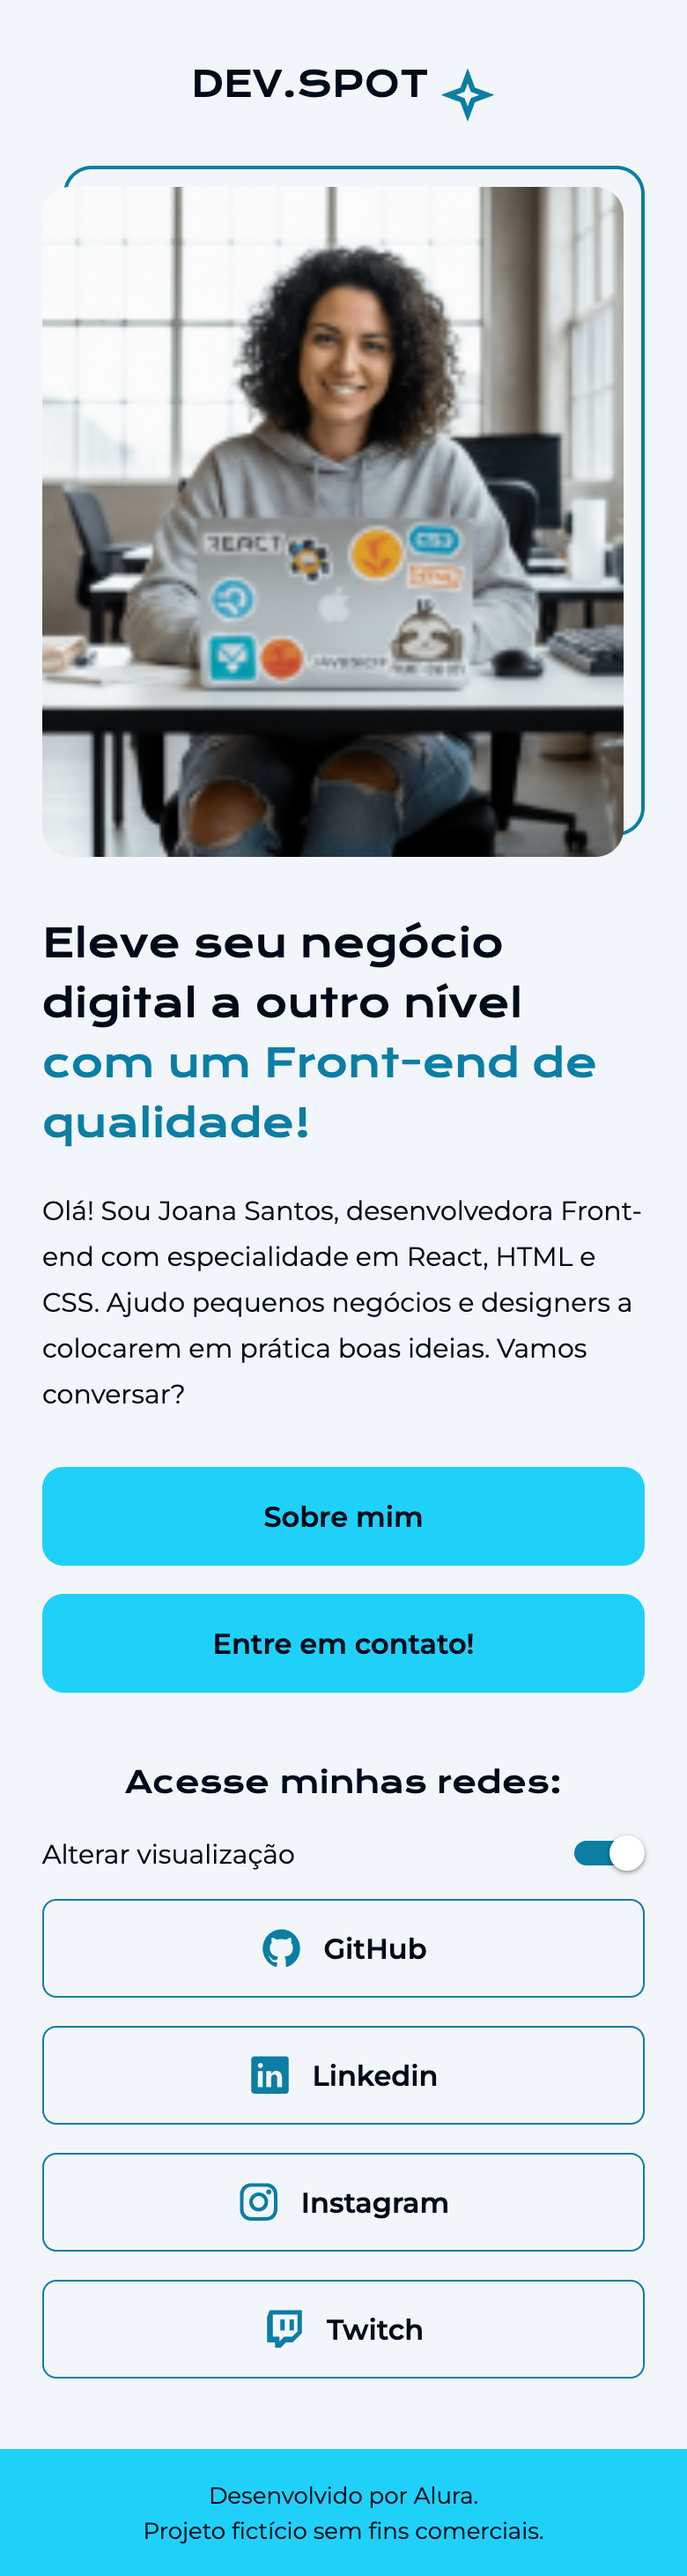
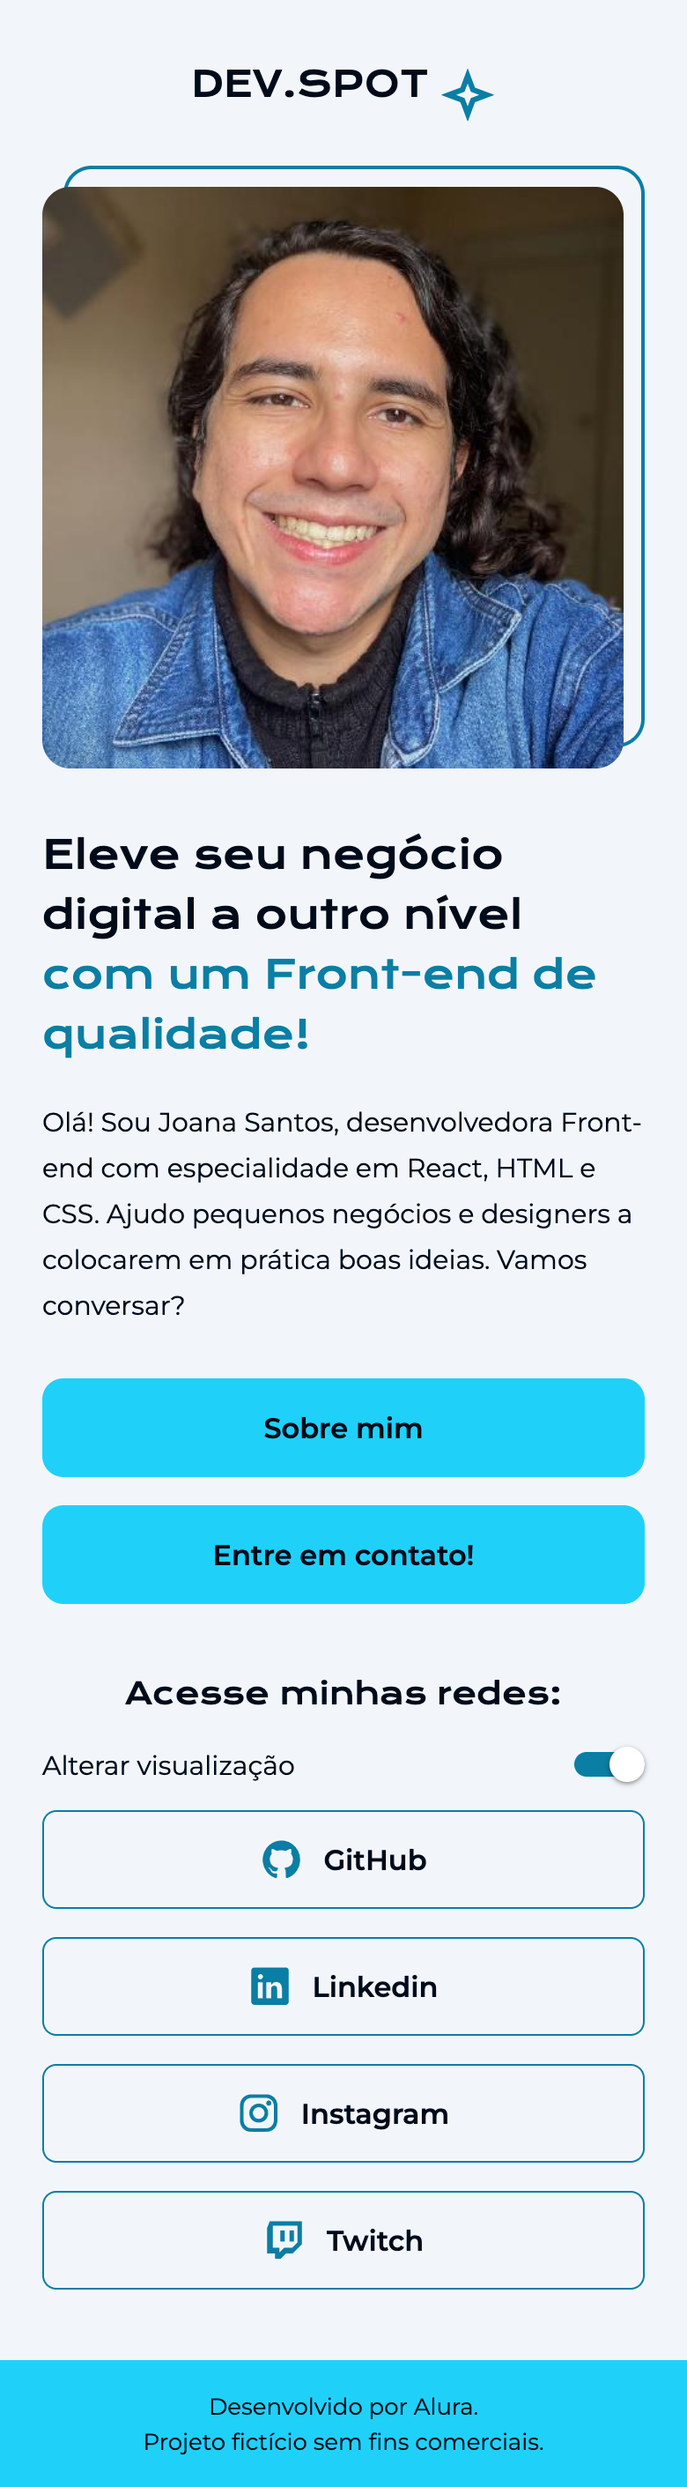
feat: foto de perfil do GitHub nas telas

diff --git a/src/screens/AboutScreen.js b/src/screens/AboutScreen.js
@@ -7,8 +7,6 @@ import { useTheme } from '../contexts/ThemeContext';
 import { profile } from '../data/profile';
 import { fonts } from '../theme/fonts';
 
-const profilePhoto = require('../assets/images/perfil.png');
-
 export default function AboutScreen({ navigation }) {
   const { colors } = useTheme();
 
@@ -24,7 +22,7 @@ export default function AboutScreen({ navigation }) {
   return (
     <ScreenContainer>
       <Header onBack={handleBack} />
-      <ProfileImage source={profilePhoto} />
+      <ProfileImage source={profile.photo} />
 
       <Text style={[styles.title, { color: colors.text }]}>Sobre mim</Text>
       {profile.about.map((paragraph) => (

diff --git a/src/screens/HomeScreen.js b/src/screens/HomeScreen.js
@@ -10,8 +10,6 @@ import { profile, socialLinks } from '../data/profile';
 import { fonts } from '../theme/fonts';
 import { showAlert } from '../utils/alert';
 
-const profilePhoto = require('../assets/images/perfil.png');
-
 export default function HomeScreen({ navigation }) {
   const { isDark, colors, toggleTheme } = useTheme();
 
@@ -31,7 +29,7 @@ export default function HomeScreen({ navigation }) {
   return (
     <ScreenContainer>
       <Header />
-      <ProfileImage source={profilePhoto} />
+      <ProfileImage source={profile.photo} />
 
       <Text style={[styles.headline, { color: colors.text }]}>
         {profile.headline}{' '}

diff --git a/src/data/profile.js b/src/data/profile.js
@@ -1,4 +1,5 @@
 export const profile = {
+  photo: require('../assets/images/perfil.jpg'),
   headline: 'Eleve seu negócio digital a outro nível',
   headlineHighlight: 'com um Front-end de qualidade!',
   intro:

diff --git a/src/components/ProfileImage.js b/src/components/ProfileImage.js
@@ -42,7 +42,7 @@ const styles = StyleSheet.create({
   },
   imageWrapper: {
     width: '100%',
-    aspectRatio: 158 / 182,
+    aspectRatio: 1,
     borderRadius: 16,
     overflow: 'hidden',
   },
